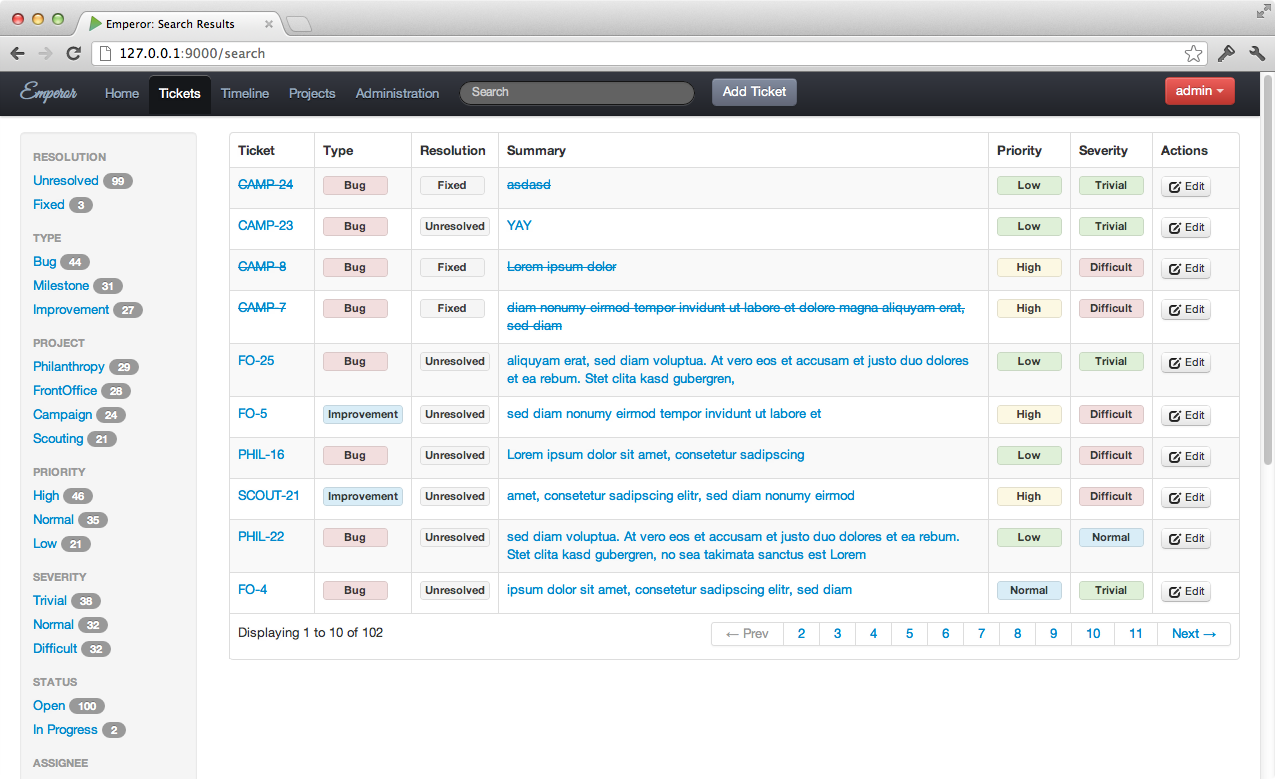
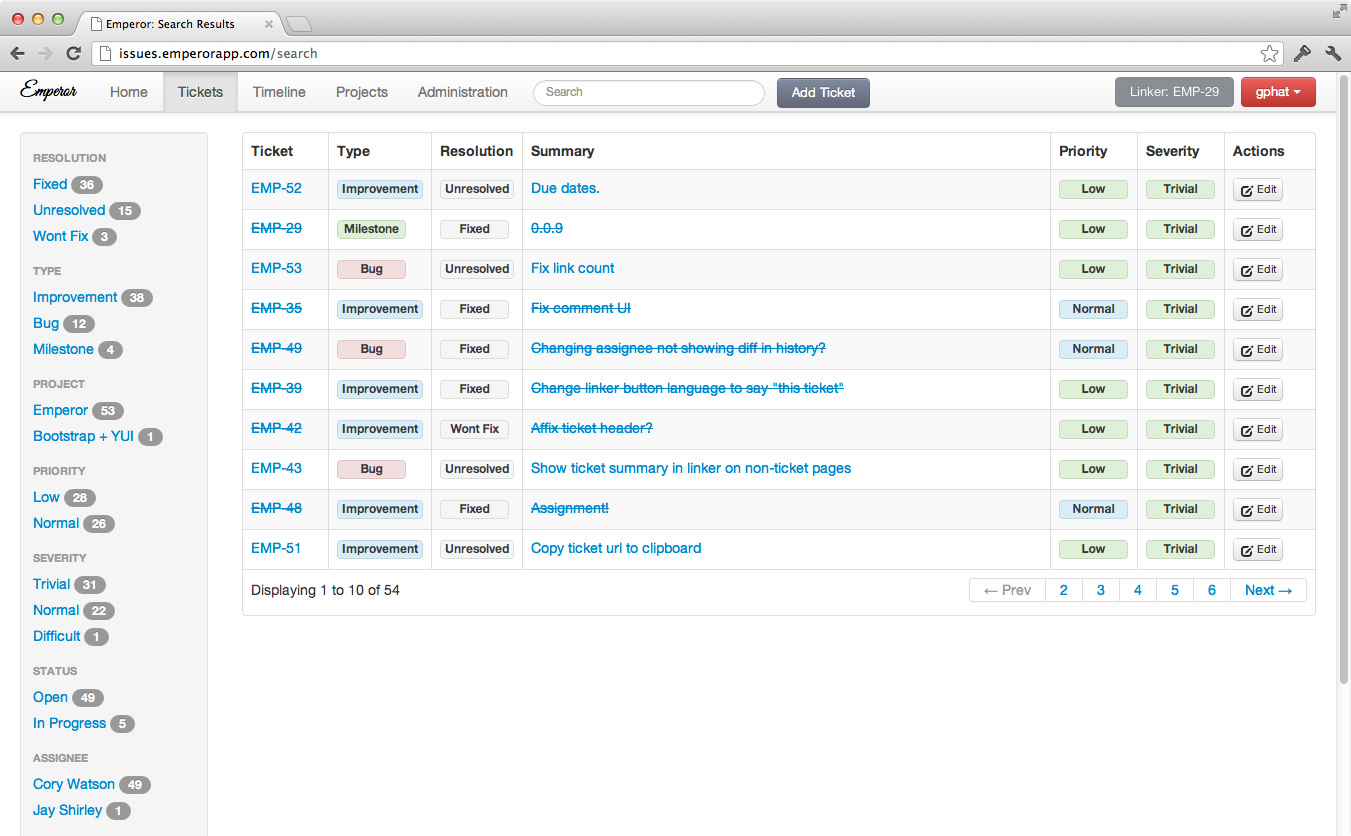
0.0.9 notes

diff --git a/_posts/2012-09-09-milestone-009.md b/_posts/2012-09-09-milestone-009.md
@@ -1,0 +1,26 @@
+---
+layout: post
+title: Release of Milestone 0.0.9
+---
+
+I'm really excited to tag version 0.0.9 of Emperor.  This sprint was all about
+revamping the UI.  Having added many features it was time to take stock of the way things
+were put together.  This release is packed with awesome features and I feel that Emperor
+is coming very close to being a functional issue tracker.
+
+Here's a list of changes:
+
+* Revamp ticket UI (EMP-30)
+* Improve comment UI (EMP-35)
+* Show more ticket information: assignee, status, reporter, open date (EMP-27, EMP-28)
+* Fix busted markdown rendering in ticket descriptions (EMP-38)
+* Improve readability of ticket linker menu (EMP-39)
+* Update to bootstrap 2.1.1 (EMP-30)
+* Allow collapsing of link table in case it gets relaly long (EMP-44)
+* Allow assignment outside of ticket editing (EMP-48)
+* Fix bugs in history display of assignment changes (EMP-49)
+* Show ticket "id" properly on some dialogs (EMP-45)
+
+Here is a screenshot of the new ticket display screen:
+
+<img style="border: 1px solid #ccc; border-radius: 3px;" src="/img/009-ticket.png">
